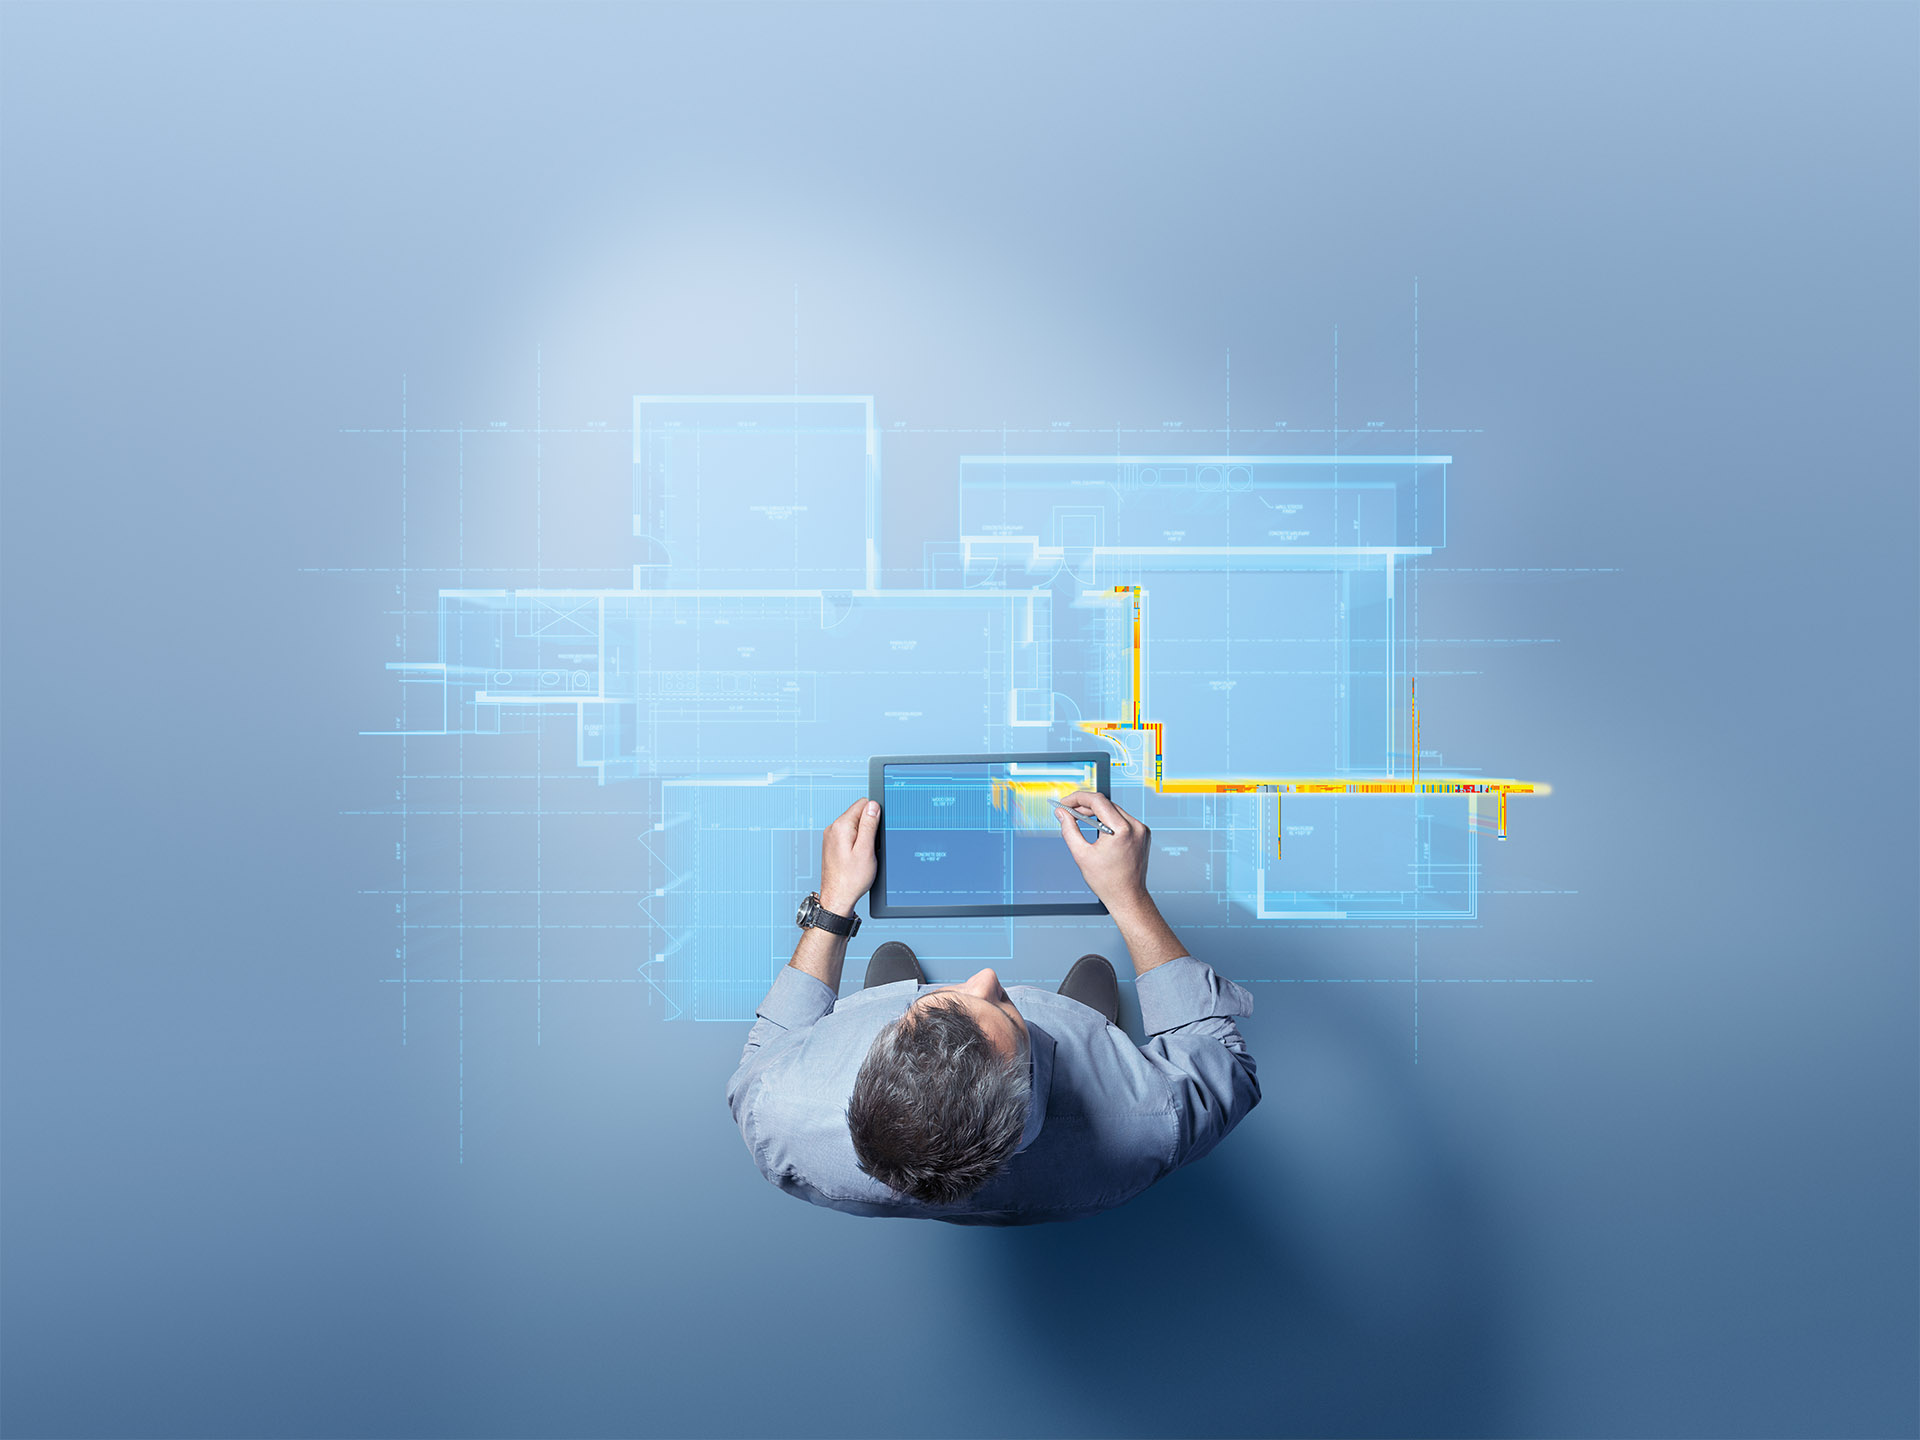
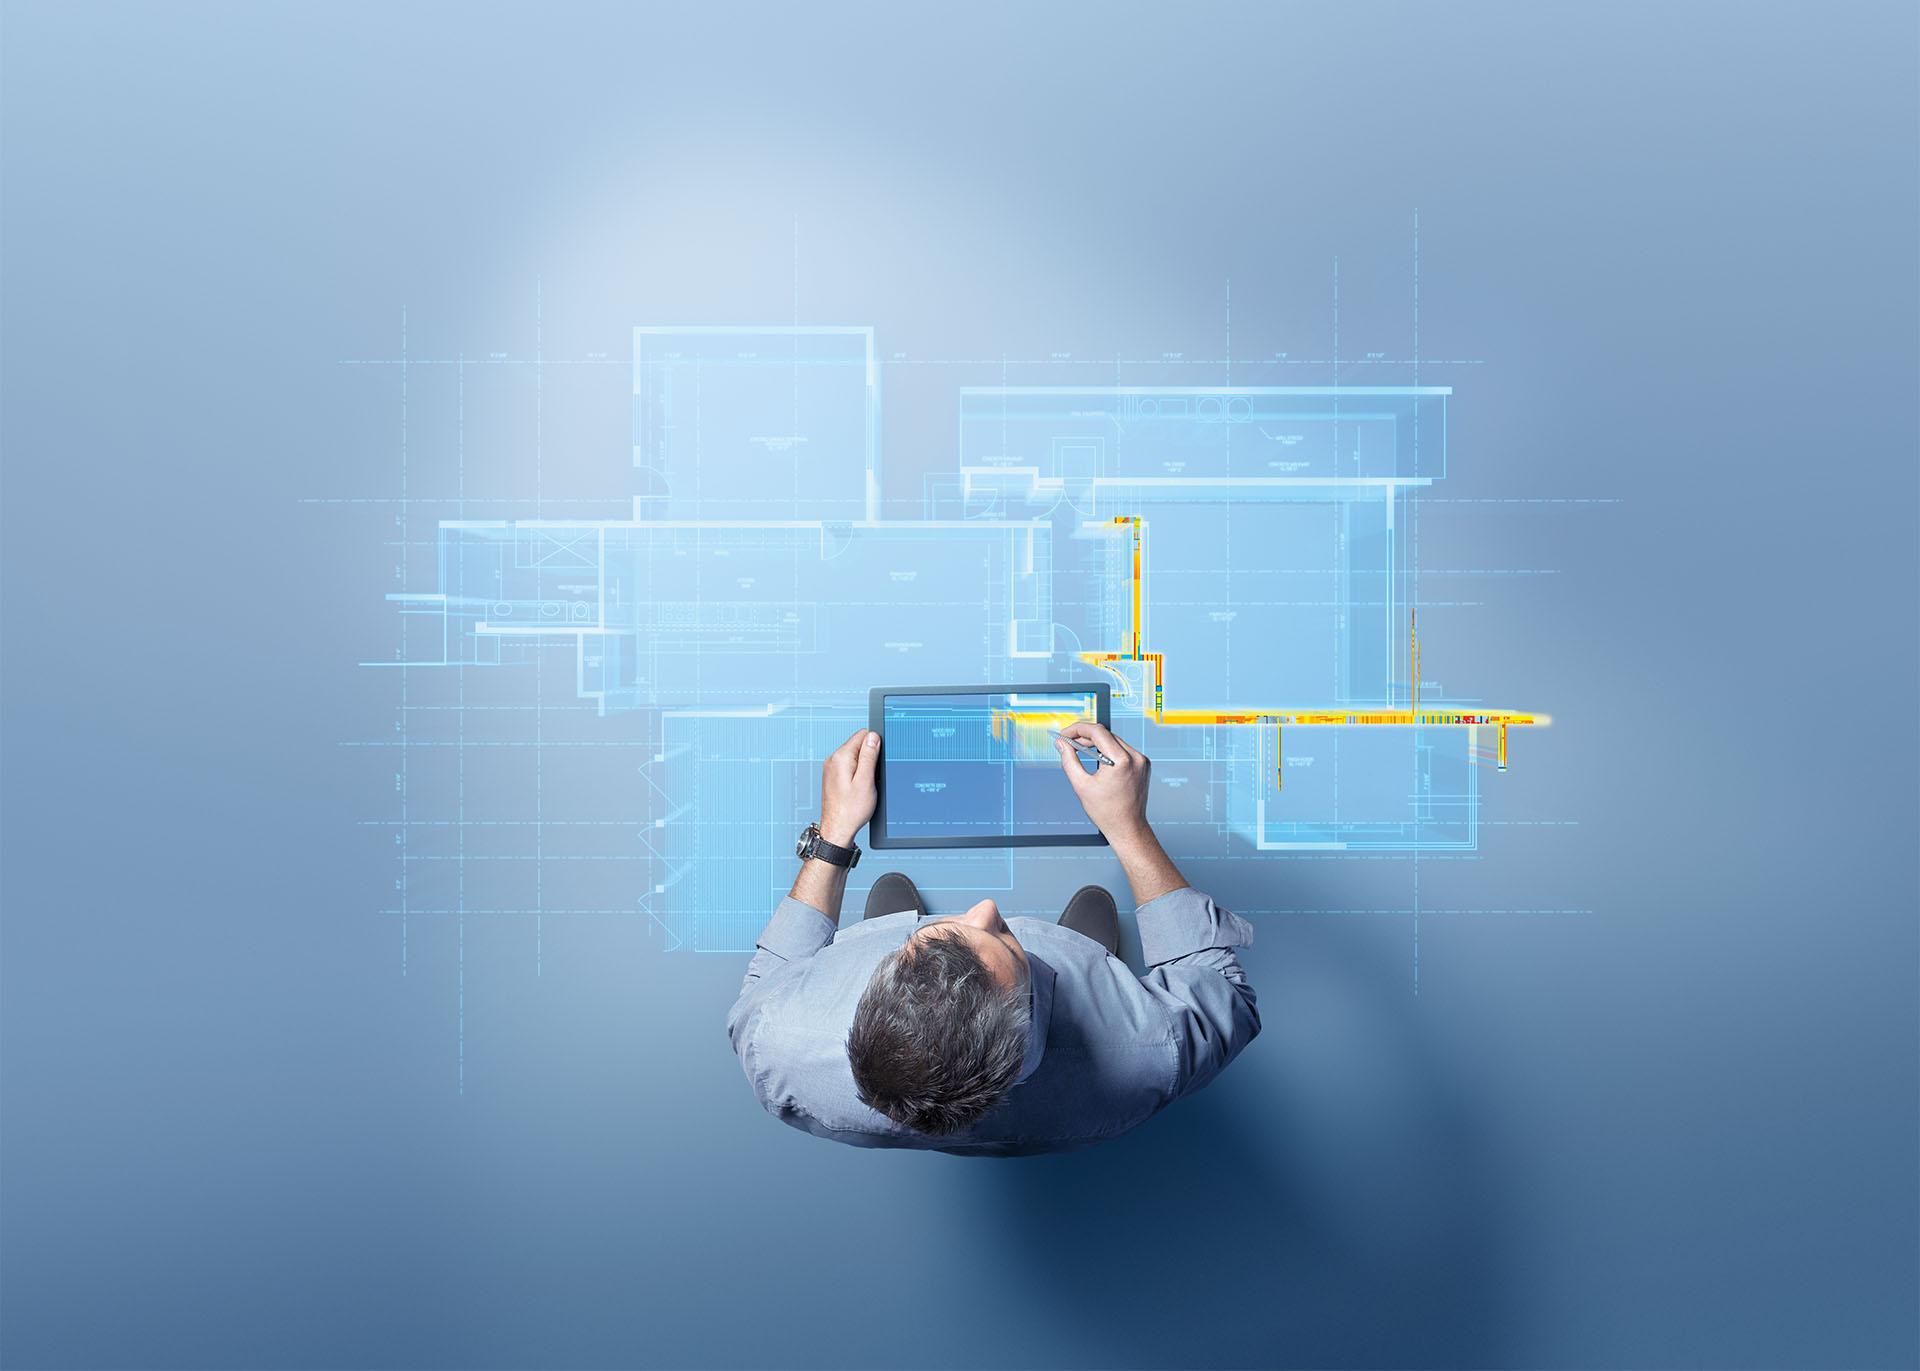
added rotating full-screen slider background.

Changed region(s): [[0.1875, 0.2757, 0.8125, 0.8578]]

diff --git a/tribeca-web/app/views/index.scala.html b/tribeca-web/app/views/index.scala.html
@@ -1,10 +1,10 @@
 @(message: String, user: database.User)
 
 @main(message,user) {
-                <div class='carousel-blur flexslider bounceIn animated' id='carousel-example-1'>
+                <div class='carousel-blur flexslider' id='carousel-example-1'>
                     <ul class='slides'>
-                        <li class='item'>
-                            <div class='container'>
+                        <li class='item slider2'>
+                            <div class='container '>
                                 <div class='row'>
                                     <div class='col-lg-12 animate'>
                                         <h1 class='big bounceInDown animated'>
@@ -16,7 +16,7 @@
                                 </div>
                             </div>
                         </li>
-                        <li class='item'>
+                        <li class='item slider3'>
                             <div class='container'>
                                 <div class='row'>
                                     <div class='col-lg-12 animate'>
@@ -30,8 +30,8 @@
                                 </div>
                             </div>
                         </li>
-                        <li class='item'>
-                            <div class='container'>
+                        <li class='item slider1'>
+                            <div class='container '>
                                 <div class='row'>
                                     <div class='col-lg-12 animate'>
                                         <h2 class='big fadeInLeftBig animated'>Simplify Complex Problems</h2>
@@ -43,7 +43,196 @@
                         </li>
                     </ul>
                 </div>
-               
+                <div id='main-content'>
+                    <div class='container'>
+                        <div class='row'>
+                            <div class='col-sm-12'>
+                                <p class='lead lead-lg text-center'>Be a part of our limited Beta release! Fill out an invitation request and test our product yourself. Your feedback is valued and appreciated!</p>
+
+                              
+                            </div>
+                        </div>
+                        <div class='row panels '>
+                            <div class='col-sm-4 panel-item'>
+                                <a class='panel panel-image' href='#'>
+                                    <div class='panel-icon'>
+                                        <i class='fa-icon-bar-chart'></i>
+                                    </div>
+                                    <div class='panel-heading'><img class="img-responsive-sm" alt="Project planning" width="768" height="300" src="assets/images/screen1.png" /></div>
+                                    <div class='panel-body'>
+                                        <h3 class='panel-title'>Applying Advanced Analytics</h3>
+                                        <p>Lorem ipsum dolor sit amet, consectetur adipiscing elit. Sed eu pharetra felis.est.</p>
+                                    </div>
+                                </a>
+                            </div>
+                            <div class='col-sm-4 panel-item'>
+                                <a class='panel panel-image' href='#'>
+                                    <div class='panel-icon'>
+                                        <i class='fa-icon-exchange'></i>
+                                    </div>
+                                    <div class='panel-heading'><img class="img-responsive-sm" alt="Easy customizable" width="768" height="300" src="assets/images/screen2.png" /></div>
+                                    <div class='panel-body'>
+                                        <h3 class='panel-title'>Fully Scalable</h3>
+                                        <p>Etiam init rutrum ligula semper neque relu dapibus, non tempus mauris sodales.est.</p>
+                                    </div>
+                                </a>
+                            </div>
+                            <div class='col-sm-4 panel-item'>
+                                <a class='panel panel-image' href='#'>
+                                    <div class='panel-icon'>
+                                        <i class='fa-icon-group'></i>
+                                    </div>
+                                    <div class='panel-heading'><img class="img-responsive-sm" alt="Fastest workers" width="768" height="300" src="assets/images/screen3.png" /></div>
+                                    <div class='panel-body'>
+                                        <h3 class='panel-title'>For All Levels Of Expertise</h3>
+                                        <p>Pellentesque id neque sit amet nibh placerat suscipit et a purus, mauris id.</p>
+                                    </div>
+                                </a>
+                            </div>
+                        </div>
+                            <!--  <div class='row'>
+              <div class='col-sm-12'>
+                <div class='page-header page-header-with-icon'>
+                  <i class='fa-icon-sitemap'></i>
+                  <h2>Top features</h2>
+                </div>
+                <div class='text-boxes'>
+                  <div class='row text-box'>
+                    <div class='col-sm-6'><img class="img-responsive center-block img-rounded" alt="Lorem ipsum dolor sit amet" width="340" height="188" src="assets/images/screen2.png" /></div>
+                    <div class='col-sm-6'>
+                      <h3 class='title'><a href="#">Lorem ipsum dolor sit amet</a></h3>
+
+                      <p>Mauris at ultricies eros. Morbi vel dui nec arcu suscipit euismod. Phasellus pellentesque lectus eget quam ullamcorper consectetur. Vestibulum vitae risus a erat mollis lac in venenatis tellus. Morbi et tristique lacus.</p>
+                      <a class='btn btn-contrast btn-bordered btn-sm' href='#'>Read more</a>
+                    </div>
+                  </div>
+                  <hr>
+                  <div class='row text-box'>
+                    <div class='col-sm-6 col-sm-push-6'><img class="img-responsive center-block img-rounded" alt="Praesent vitae adipiscing nunc" width="330" height="183" src="assets/images/screen2.png" /></div>
+                    <div class='col-sm-6 col-sm-pull-6'>
+                      <h3 class='title'><a href="#">Praesent vitae adipiscing nunc</a></h3>
+                      <p>Integer fringtilla fringilla mauris eget accumsan. Nullam quis consequat ipsum, eu cursus mi. Donec quis quam at risus viverra venenatis. Phasellus non nulla tortor. Fusce congue enim sed ullamcorper cursus. Donec tincidunt elit sed felis iaculis laoreet.</p>
+                      <a class='btn btn-contrast btn-bordered btn-sm' href='#'>Read more</a>
+                    </div>
+                  </div>
+                </div>
+              </div>
+            </div> 
+                        <div class='row'>
+                            <div class='col-sm-12'>
+                                <div class='page-header page-header-with-icon'>
+                                    <i class='fa-icon-picture'></i>
+                                    <h2>
+                                        Screenshots
+                                        <small>Phasellus malesuada sapien non orci semper gravida.</small>
+                                    </h2>
+                                </div>
+                                <div class='row portfolio-boxes'>
+                                    <div class='col-sm-3 col-xs-6 no-mb-t-xs portfolio-box'>
+                                        <a class='image-link' href='#'>
+                                            <i class='fa-icon-search'></i>
+                                            <img class="img-responsive img-rounded center-block" alt="Etiam vestibulum" width="262" height="262" src="assets/images/screen2.png" />
+                                        </a>
+                                        <h3 class='title'>Etiam vestibulum</h3>
+                                        <p class='category'>Responsive Interface</p>
+                                    </div>
+                                    <div class='col-sm-3 col-xs-6 no-mb-t-xs portfolio-box'>
+                                        <a class='image-link' href='#'>
+                                            <i class='fa-icon-link'></i>
+                                            <img class="img-responsive img-rounded center-block" alt="Malesuada" width="262" height="262" src="assets/images/screen2.png" />
+                                        </a>
+                                        <h3 class='title'>Malesuada</h3>
+                                        <p class='category'>Multiple Functionality</p>
+                                    </div>
+                                    <div class='col-sm-3 col-xs-6 portfolio-box'>
+                                        <a href='#'>
+                                            <div class='image-link'>
+                                                <i class='fa-icon-search'></i>
+                                                <img class="img-responsive img-rounded center-block" alt="Dictum vulputate" width="262" height="262" src="assets/images/screen2.png" />
+                                            </div>
+                                            <h3 class='title'>Dictum vulputate</h3>
+                                            <p class='category'>Machine Learning</p>
+                                        </a>
+                                    </div>
+                                    <div class='col-sm-3 col-xs-6 portfolio-box'>
+                                        <a href='#'>
+                                            <div class='image-link'>
+                                                <i class='fa-icon-search'></i>
+                                                <img class="img-responsive img-rounded center-block" alt="Semper massa" width="262" height="262" src="assets/images/screen2.png" />
+                                            </div>
+                                            <h3 class='title'>Semper massa</h3>
+                                            <p class='category'>Streamlined Process</p>
+                                        </a>
+                                    </div>
+                                </div>
+                            </div>
+                        </div>
+                        <div class='row'>
+                            <div class='col-sm-12'>
+                                <div class='page-header page-header-with-icon'>
+                                    <i class='fa-icon-quote-right'></i>
+                                    <h2>Testimonials</h2>
+                                </div>
+                                <div class='row quotes'>
+                                    <div class='carousel carousel-default slide carousel-auto' id='carousel-testimonials'>
+                                        <div class='carousel-inner'>
+                                            <div class='item active quote'>
+                                                <div class='col-sm-12 text-center'>
+                                                    <p class='lead'>Mauris at ultricies eros. Morbi vel dui nec arcu suscipit euismod. Phasellus pellentesque lectus eget quam ullamcorper consectetur. Vestibulum vitae risus a erat mollis lac in venenatis tellus.</p>
+                                                    <div class='author-wrapper'>
+                                                        <p class='author'>
+                                                            <strong>Major Client</strong>,
+                                                            Company name
+                                                        </p>
+                                                    </div>
+                                                </div>
+                                            </div>
+                                            <div class='item quote'>
+                                                <div class='col-sm-12 text-center'>
+                                                    <p class='lead'>Lorem ipsum dolor sit amet, consectetur adipiscing elit. Praesent accumsan leo tellus. Nulla fringilla elementum nisl, vitae faucibus risus. Donec ut tristique eros. Curabitur mattis auctor turpis.</p>
+                                                    <div class='author-wrapper'>
+                                                        <p class='author'>
+                                                            <strong>Client Eleven</strong>,
+                                                            Company Name
+                                                        </p>
+                                                    </div>
+                                                </div>
+                                            </div>
+                                            <div class='item quote'>
+                                                <div class='col-sm-12 text-center'>
+                                                    <p class='lead'>Aenean lorem quam, dapibus et enim vel, ultrices tincidunt tellus. Donec mattis massa et lacus interdum lobortis. Pellentesque habitant morbi tristique senectus. Curabitur mattis auctor turpis.</p>
+                                                    <div class='author-wrapper'>
+                                                        <p class='author'>
+                                                            <strong>Client Seventeen</strong>,
+                                                            Bublina Studio
+                                                        </p>
+                                                    </div>
+                                                </div>
+                                            </div>
+                                            <div class='item quote'>
+                                                <div class='col-sm-12 text-center'>
+                                                    <p class='lead'>Integer quis placerat leo, sit amet varius odio. Fusce sollicitudin metus eu eros egestas cursus ut ullamcorper augue. Integer blandit tellus a urna semper, sit amet tempor orci ornare. Mauris nec.</p>
+                                                    <div class='author-wrapper'>
+                                                        <p class='author'>
+                                                            <strong>Client Eighteen</strong>,
+                                                            Company name
+                                                        </p>
+                                                    </div>
+                                                </div>
+                                            </div>
+                                        </div>
+                                        <ol class='carousel-indicators'>
+                                            <li class='active' data-slide-to='0' data-target='#carousel-testimonials'></li>
+                                            <li data-slide-to='1' data-target='#carousel-testimonials'></li>
+                                            <li data-slide-to='2' data-target='#carousel-testimonials'></li>
+                                            <li data-slide-to='3' data-target='#carousel-testimonials'></li>
+                                        </ol>
+                                    </div>
+                                </div>
+                            </div>
+                        </div> -->
+                    </div>
+                </div>
                 <div class='fade' id='scroll-to-top'>
                     <i class='fa-icon-chevron-up'></i>
                 </div>

diff --git a/tribeca-web/public/stylesheets/custom.css b/tribeca-web/public/stylesheets/custom.css
@@ -1,10 +1,14 @@
 
-.forest1 {
-  background-image: url("../images/carousel/rain.jpg");
+.slider1 {
+  background-image: url("../images/carousel/Buildings.jpg");
 }
 
-.forest2 {
-  background-image: url("../images/carousel/crowd1.jpg");
+.slider2 {
+  background-image: url("../images/carousel/virtualcity.jpg");
+}
+
+.slider3 {
+  background-image: url("../images/carousel/architect.jpg");
 }
 
 *::-moz-selection {
@@ -50,7 +54,7 @@
     z-index: 99;
     position: fixed;
     width: 100%;
-    background: rgba(0, 0, 0, 0.7);
+    background: rgba(0, 0, 0, 0.25);
     height: 60px;
 }
 
@@ -83,7 +87,7 @@
 
 .carousel-blur .item {
     text-align: center;
-    padding-top: 75px;
+    padding-top: 150px;
 }
 
 .btn-primary {
@@ -158,7 +162,7 @@
 }
 
 #footer #footer-main {
-    background: url("../images/carousel/serverfooter.jpg");
+    background: none repeat scroll 0 0 rgba(0, 0, 0, 0.2);
     padding: 10px 0;
     text-align: center;
 

diff --git a/tribeca-web/public/stylesheets/Tribeca_blue.css b/tribeca-web/public/stylesheets/Tribeca_blue.css
@@ -5613,7 +5613,7 @@ html {
   height: 100%; }
 
 body {
-  background-color: #103754;
+  background-color: #fff;
   width: 100%;
   overflow-x: hidden; }
   body.boxed {
@@ -5644,11 +5644,11 @@ body {
 #wrapper {
   background-repeat: no-repeat;
   background-position: center 0;
-  background-image: url("../images/carousel/virtualcity.jpg"); }
+  background:none; }
   @media (min--moz-device-pixel-ratio: 1.3), (-o-min-device-pixel-ratio: 2.6 / 2), (-webkit-min-device-pixel-ratio: 1.3), (min-device-pixel-ratio: 1.3), (min-resolution: 1.3dppx) {
     #wrapper {
       background-image: url("../images/bg_wrapper@2x.jpg");
-      background-size: 1920px 1080px; } }
+      background-size: 1920px 535px; } }
 
 #main-content {
   padding: 70px 0 80px 0;
